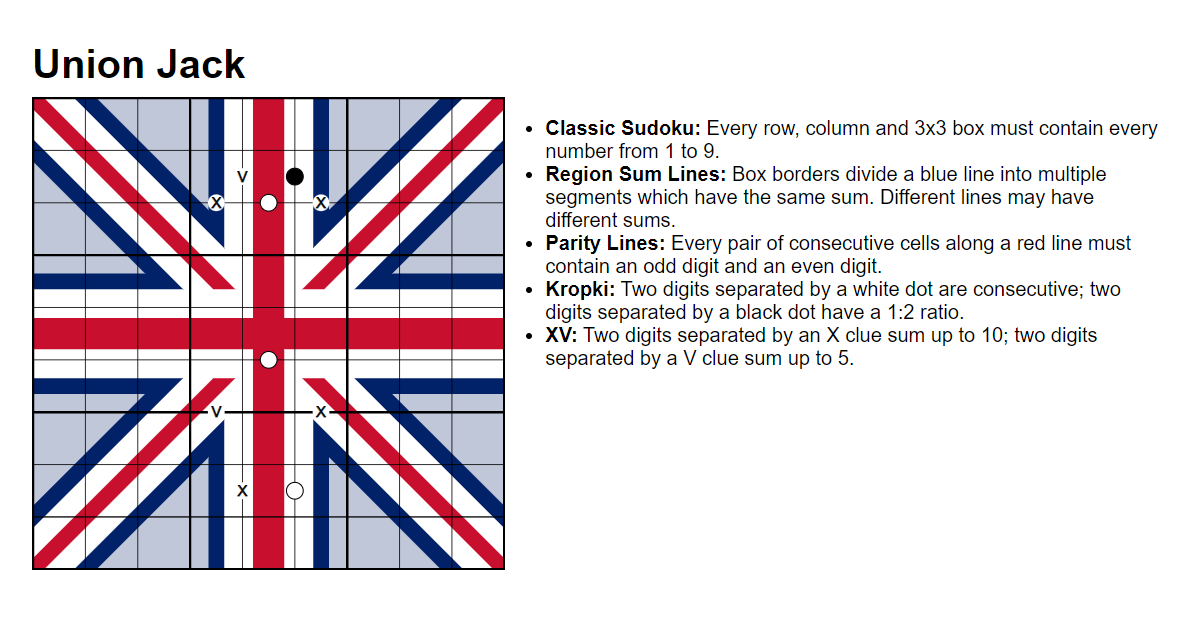
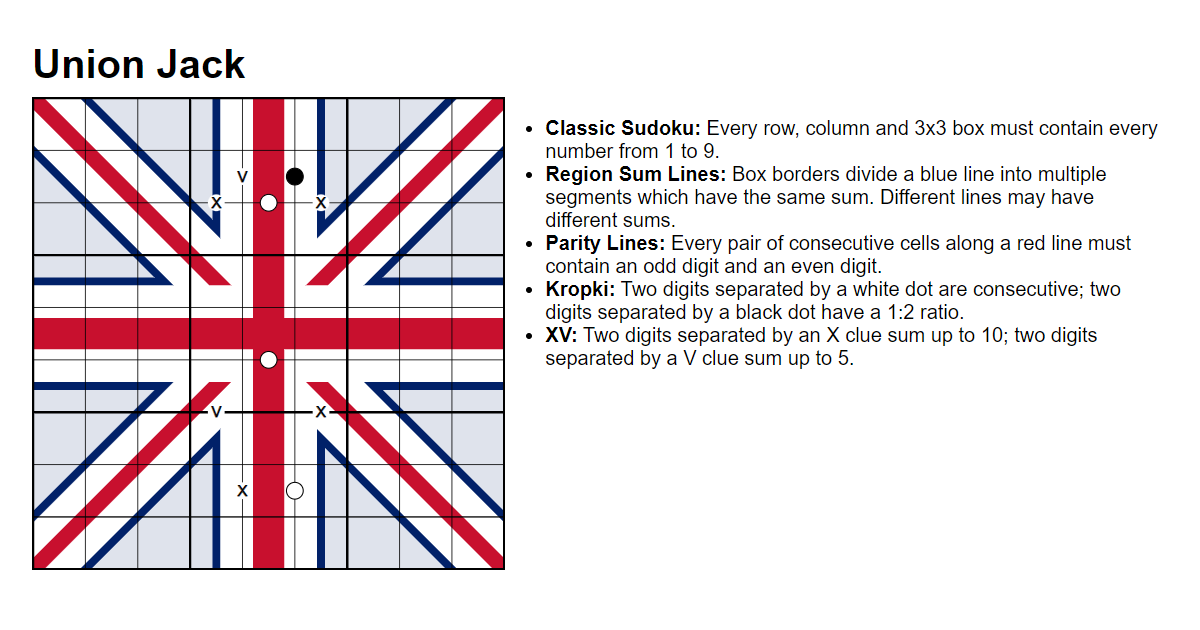
Updated Union Jack puzzle and some changes in argv management in lmd-manager.js

diff --git a/_tools/lmd-manager.js b/_tools/lmd-manager.js
@@ -1,5 +1,6 @@
 const fs = require('fs');
 const path = require('path');
+const { parseArgs } = require('util');
 const { load: cheerioLoad } = require('cheerio');
 const { marked } = require('marked');
 const { Resvg } = require('@resvg/resvg-js');
@@ -305,33 +306,36 @@ async function uploadImage(slug, yml = ymlFromSlug(slug)) {
 const LMD_DATA_PATH = path.join(__dirname, 'lmd-data.json');
 const lmdData = JSON.parse(fs.readFileSync(LMD_DATA_PATH));
 async function main() {
-  const rawArgs = process.argv.slice(2);
-  const slug = rawArgs[0];
+  const rawArgs = parseArgs({
+    args: process.argv.slice(2),
+    options: {
+      image: {type: 'boolean'},
+      update: {type: 'boolean'},
+      date: {type: 'string'},
+      code: {type: 'string'},
+      dif: {type: 'string'},
+      labels: {type: 'string'},
+      tags: {type: 'string'},
+      comment: {type: 'string'}
+    },
+    strict: true,
+    allowPositionals: true
+  });
+
+  const slug = rawArgs.positionals[0];
   try {
-    if (rawArgs[1] === '--image')
+    if (rawArgs.values.image)
       await uploadImage(slug);
-    else {
-      if (rawArgs.length > 0) {
-        const params = {};
-        rawArgs.forEach( p => {
-          let m = p.match(/^--comment=(.+)/);
-          if (m) { params.comment = m[1]; return; }
-          m = p.match(/^--date=(\d{4}-\d{2}-\d{2}[ _]\d{2}:\d{2}(?::\d{2})?)/);
-          if (m) { params.date = m[1].replace('_', ' '); return; }
-          m = p.match(/^--code=(.+)/);
-          if (m) { params.generate_code = m[1]; return; }
-          m = p.match(/^--dif=(\d)/);
-          if (m) { params.dif = parseInt(m[1]); return; }
-          m = p.match(/--labels=(.+)/);
-          if (m) { params.labels = m[1].split(/, */).map(Number); return; }
-          m = p.match(/--tags=(.+)/);
-          if (m) { params.tags = m[1].split(/, */); return; }
-        });
-        await uploadPuzzle(slug, params);
-      }
-      else
-        await uploadPuzzle(slug);
-    }
+    const params = {
+      date: rawArgs.values.date?.replace('_', ' '),
+      generate_code: rawArgs.values.code,
+      dif: parseInt(rawArgs.values.dif) || undefined,
+      labels: rawArgs.values.labels?.split(/, */)?.map(Number),
+      tags: rawArgs.values.tags?.split(/, */),
+      comment: rawArgs.values.comment
+    };
+    if (rawArgs.values.update || Object.values(params).some(v => v !== undefined))
+      await uploadPuzzle(slug, params);
   } catch (e) {
     console.error(e);
   }

diff --git a/_puzzles/union-jack.md b/_puzzles/union-jack.md
@@ -2,7 +2,7 @@
 title: Union Jack
 creation_date: "2026-11-21"
 order: 56
-sudokupad_url: https://sudokupad.app/2s25su807f
+sudokupad_url: https://sudokupad.app/507gshcu4o
 lmd_id: 000W5F
 rules:
   - name: Classic Sudoku
